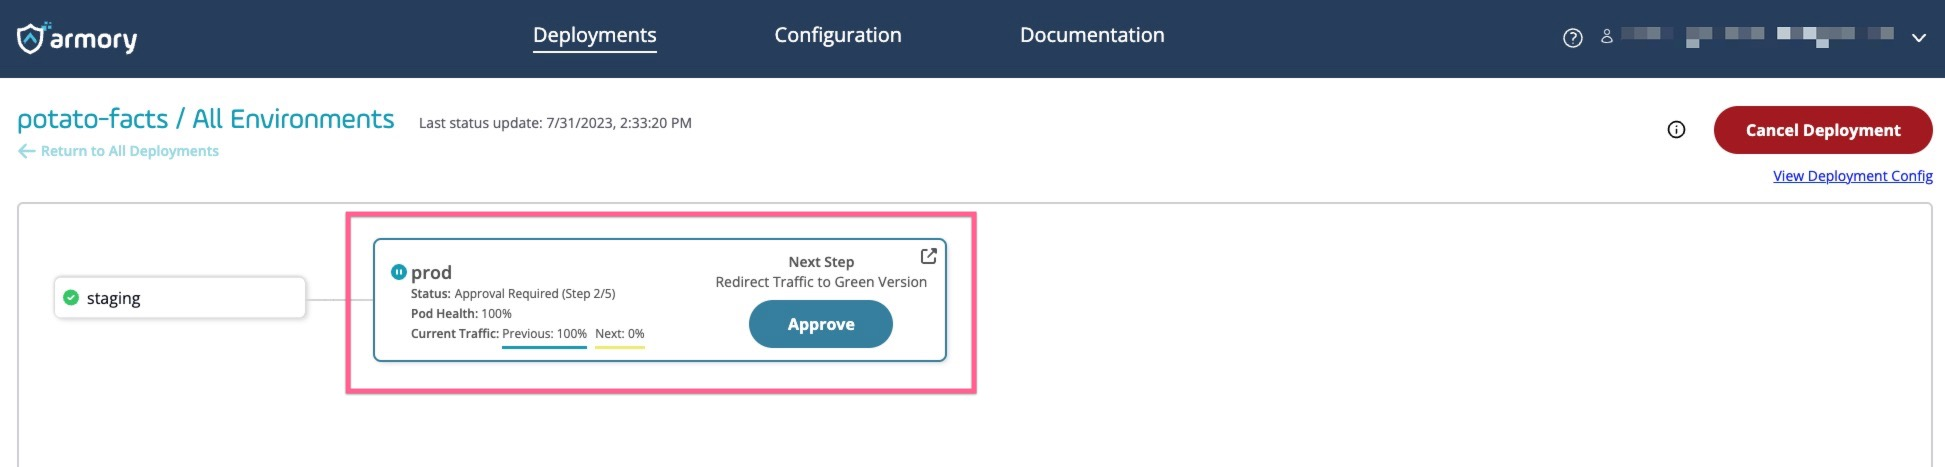
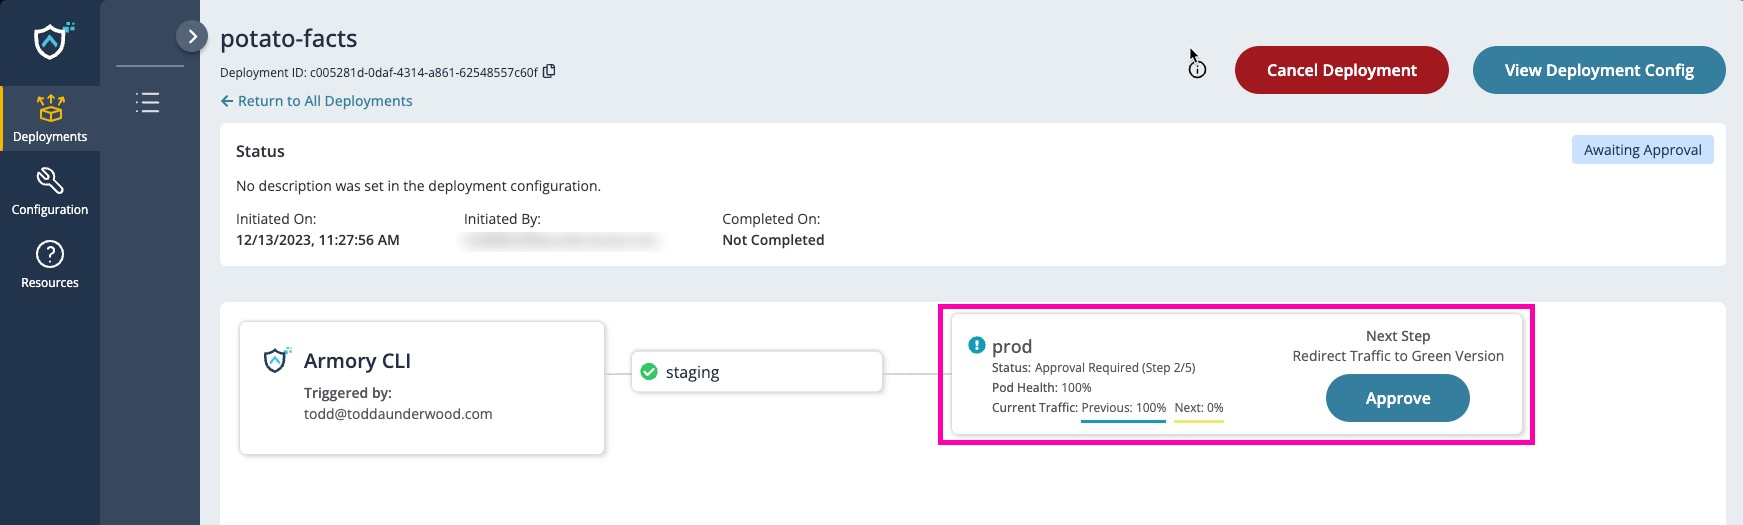
chore: update screenshots for new app shell (#100)
* chore: update screenshots on k8s quickstart

* chore: fix screenshots

* chore: update k8s quickstart screenshots

* chore:update quickstart and screenshots for lambda

* chore: update image on manage rbac roles page

* chore: update text and screenshot of switch tenant

* chore: update rback troubleshooting

* chore: update blue green screen

* Update content/en/get-started/lambda/index.md

* Update content/en/get-started/lambda/index.md

---------

diff --git a/content/en/get-started/lambda/index.md b/content/en/get-started/lambda/index.md
@@ -53,16 +53,11 @@ Confirm the device code in your browser when prompted. Then return to this guide
 
 ## Create S3 buckets
 
-You need to store your AWS Lambda function as a zip file in an S3 bucket, and S3 bucket needs to be in the same region you deploy to. For this guide, you are going to deploy the AWS Lambda function to four regions so you need to create four buckets:
+You need to store your AWS Lambda function as a zip file in an S3 bucket, and S3 bucket needs to be in the same region you deploy to. 
 
+For this guide you are going to need to create S3 buckets in four regions, us-east-1, us-east-2, us-west-1, and us-west-2 . You reference these buckets as `<my-bucket-prefix>-<region>` (i.e `<my-bucket-prefix>-us-west-1` ).
 
-| Region | Bucket Name | 
-| ---------|----------|
-| us-east-1 | armory-demo-east-1 | 
-| us-east-2 | armory-demo-east-2 | 
-| us-west-1 | armory-demo-west-1 | 
-| us-west-2 | armory-demo-west-2 |
-
+Create each bucket by entering `<my-bucket-prefix>-<region>` into the **Bucket Name** field. 
 Use the default values for the rest of the fields. 
 
 After you have finished, you should have four buckets.
@@ -106,13 +101,13 @@ const potatolessFacts = [
 </details>
 
 1. <a href="/get-started/lambda/files/just-sweet-potatoes.zip" download>Download the function zip file</a>.
-1. Upload the file to each of your `armory-demo-lambda-deploy` S3 buckets.
+1. Upload the file to each of your `<my-demo-prefix>` S3 buckets.
 1. Make a note of each bucket's S3 path to the lambda function. The paths should be:
   
-  * `s3://armory-demo-east-1/just-sweet-potatoes.zip`
-  * `s3://armory-demo-east-2/just-sweet-potatoes.zip`
-  * `s3://armory-demo-west-1/just-sweet-potatoes.zip`
-  * `s3://armory-demo-west-2/just-sweet-potatoes.zip`
+  * `s3://<my-bucket-prefix>-us-east-1/just-sweet-potatoes.zip`
+  * `s3://<my-bucket-prefix>-us-east-2/just-sweet-potatoes.zip`
+  * `s3://<my-bucket-prefix>-us-west-1/just-sweet-potatoes.zip`
+  * `s3://<my-bucket-prefix>-us-west-2/just-sweet-potatoes.zip`
 
 ## Create your deployment config file
 
@@ -212,16 +207,16 @@ The function is named `just-sweet-potatoes` in each S3 bucket, but the `function
 {{< highlight yaml "linenos=table" >}}
 artifacts:
   - functionName: just-sweet-potatoes-dev
-    path: s3://armory-demo-east-1/just-sweet-potatoes.zip
+    path: s3://<my-bucket-prefix>-us-east-1/just-sweet-potatoes.zip
     type: zipFile
   - functionName: just-sweet-potatoes-staging
-    path: s3://armory-demo-east-2/just-sweet-potatoes.zip
+    path: s3://<my-bucket-prefix>-us-east-2/just-sweet-potatoes.zip
     type: zipFile
   - functionName: just-sweet-potatoes-prod-west-1
-    path: s3://armory-demo-west-1/just-sweet-potatoes.zip
+    path: s3://<my-bucket-prefix>-us-west-1/just-sweet-potatoes.zip
     type: zipFile
   - functionName: just-sweet-potatoes-prod-west-2
-    path: s3://armory-demo-west-2/just-sweet-potatoes.zip
+    path: s3://<my-bucket-prefix>-us-west-2/just-sweet-potatoes.zip
     type: zipFile
 {{< /highlight >}}
 
@@ -236,22 +231,22 @@ providerOptions:
       name: just-sweet-potatoes-dev      
       runAsIamRole: <execution-role-arn>
       handler: index.handler
-      runtime: python3.10
+      runtime: nodejs18.x
     - target: staging
       name: just-sweet-potatoes-staging      
       runAsIamRole: <execution-role-arn>
       handler: index.handler
-      runtime: python3.10
+      runtime: nodejs18.x
     - target: prod-west-1
       name: just-sweet-potatoes-prod-west-1      
       runAsIamRole: <execution-role-arn>
       handler: index.handler
-      runtime: python3.10
+      runtime: nodejs18.x
     - target: prod-west-2
       name: just-sweet-potatoes-prod-west-2      
       runAsIamRole: <execution-role-arn>
       handler: index.handler
-      runtime: python3.10
+      runtime: nodejs18.x
 {{< /highlight >}}
 
 {{< include "dep-file/lambda-provider-options.md" >}}

diff --git a/content/en/iam/manage-rbac-roles/index.md b/content/en/iam/manage-rbac-roles/index.md
@@ -242,5 +242,5 @@ Execute `armory config apply -f <path-to-rbac-config>.yml` to apply your changes
 
 You can check that you deleted your role by running `armory config get`.
 
-When you delete a role, that role is removed from existing users. You can accidentally remove the ability for your users to perform actions within CD-as-a-Service. A user with no role can still log into the UI but only sees a blank **Deployments** screen:
+When you delete a role, that role is removed from existing users. You can accidentally remove the ability for your users to perform actions within CD-as-a-Service. A user with no role can still log into the UI but only sees a blank **Deployments** screen and will receive a 'Principal Not Authorized' error:
 {{< figure src="user-no-role.png" >}}

diff --git a/content/en/iam/manage-tenants/index.md b/content/en/iam/manage-tenants/index.md
@@ -104,5 +104,5 @@ You use the UI to switch to the tenant whose resources you want to see. CD-as-a-
 {{< figure src="ui-switch-tenant.jpg" alt="Switch Tenant." >}}
 
 1. Access your user context menu.
-1. Hover over **Switch Tenant** to display a list of accessible tenants.
+1. Click the **Switch Tenant** button.
 1. Click the tenant you want to switch to.
